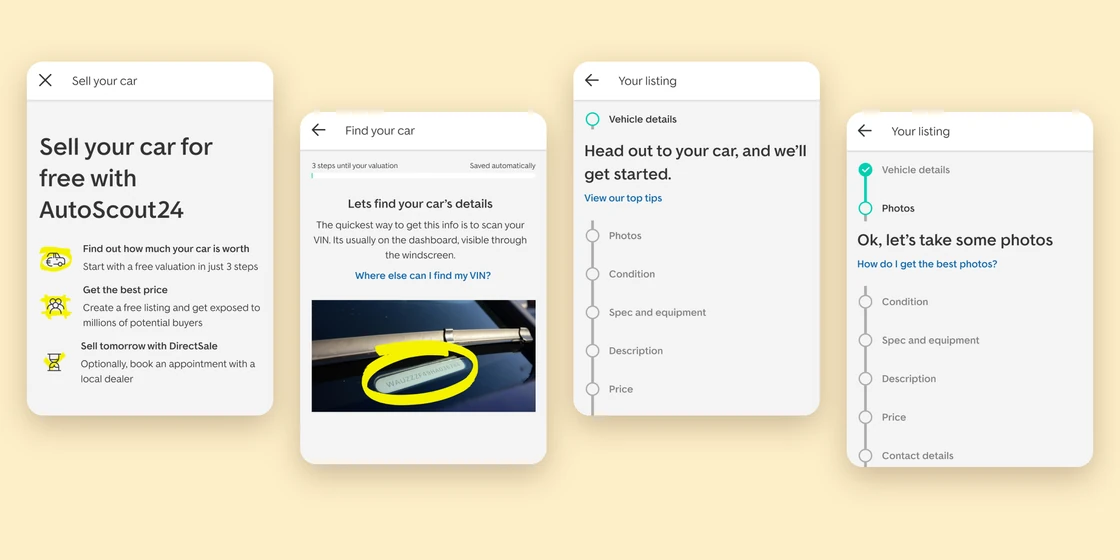
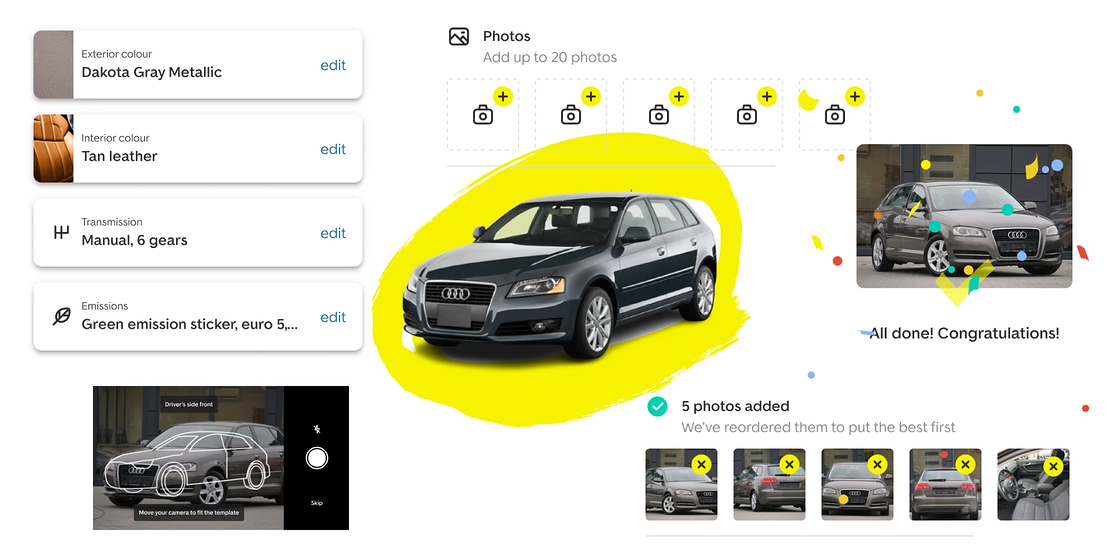
Selling Your Own Car: new hero
Claude-Session: https://claude.ai/code/session_016vAdai3CtSbqx1Acff8fYM

diff --git a/work/private-sellers/index.html b/work/private-sellers/index.html
@@ -69,7 +69,7 @@
       </aside>
     </div>
     <div class="hero-shot"><div class="shot natural" style="--ar: 2000 / 1000">
-  <img src="../../assets/img/private-sellers/hero.webp" srcset="../../assets/img/private-sellers/hero-1120.webp 1120w, ../../assets/img/private-sellers/hero.webp 2000w" sizes="(max-width: 76rem) 100vw, 1120px" width="2000" height="1000" alt="Four phone screens from the selling flow: the Sell your car start page, scanning the VIN to find the car, and two steps of listing creation, vehicle details and photos.">
+  <img src="../../assets/img/private-sellers/hero.webp?v=2" srcset="../../assets/img/private-sellers/hero-1120.webp?v=2 1120w, ../../assets/img/private-sellers/hero.webp?v=2 2000w" sizes="(max-width: 76rem) 100vw, 1120px" width="2000" height="1000" alt="Pieces of the selling flow around a car on a yellow brush stroke: vehicle details with edit links for colour, interior, transmission and emissions; empty photo slots; the camera template for the driver&#39;s side front; five photos added and reordered to put the best first; and an All done! Congratulations! message with confetti.">
 </div></div>
   </div>
 </section>
